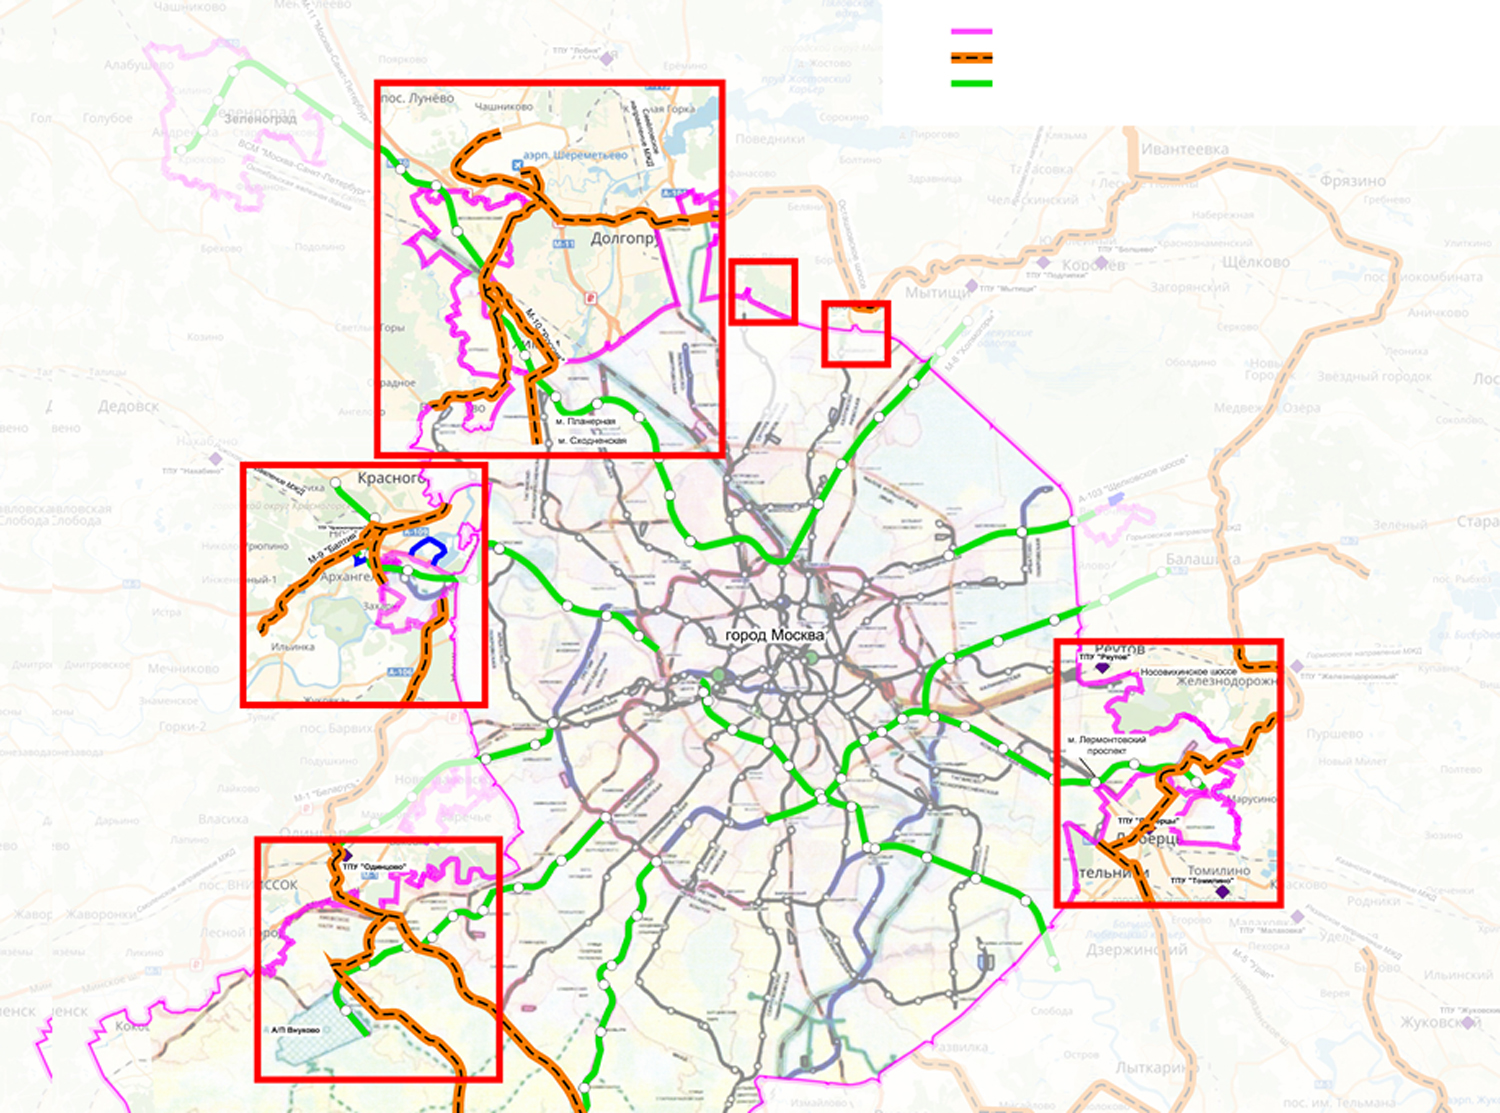
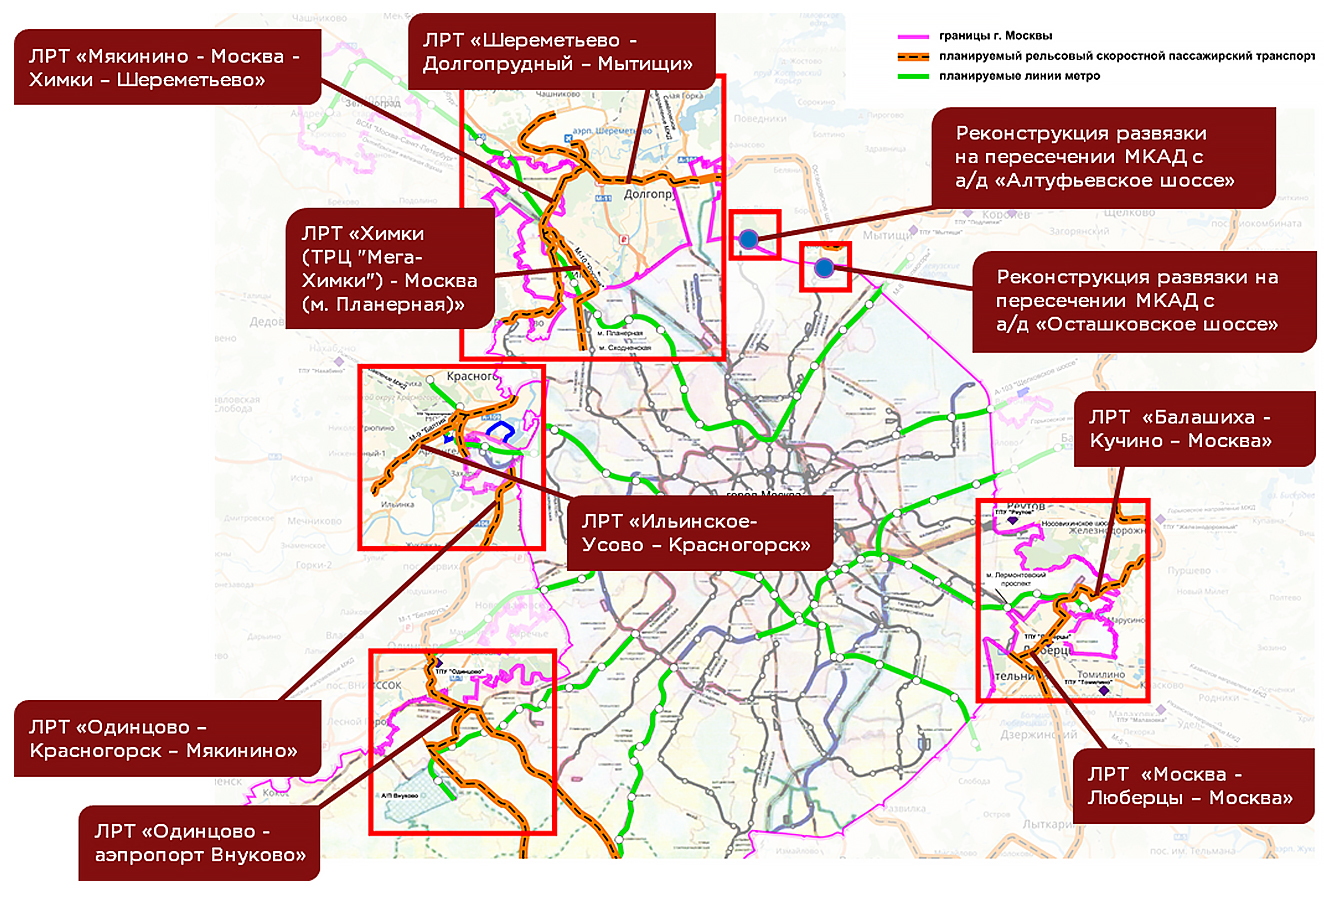
7 категория

diff --git a/src/categories/Category7/Category7.js b/src/categories/Category7/Category7.js
@@ -6,14 +6,14 @@ import './Category7.css';
 const Category7 = () => (
   <section className="section">
     <div className="sectionBody">
-      <div className="slideGrid slideGridCategory7">
-        <div className="slideGridSidebar">
+      <div className="slideGridCategory7">
+        <div className="slideGridCategory7Sidebar">
           <Title count={7} className="Category7Title">
-            Реконструкция объектов транспортной инфраструктуры на территории г. Москвы и МО (развязки МКАД), установление красных линий ЛРТ
-            в точках состыковки с будущими линиями Московского метрополитена
+            Утверждение красных линий планируемых транспортных инфраструктур (региональных транспортных коридоров, автомобильных дорог I –
+            III категории, ЛРТ)
           </Title>
         </div>
-        <div className="slideGridMap slideGridMap_Category7">
+        <div className="slideGridCategory7Map">
           <img src={img} alt="" />
         </div>
       </div>

diff --git a/src/categories/Category6/Category6.js b/src/categories/Category6/Category6.js
@@ -6,14 +6,14 @@ import './Category6.css';
 const Category6 = () => (
   <section className="section">
     <div className="sectionBody">
-      <div className="slideGrid slideGridCategory6">
-        <div className="slideGridSidebar">
+      <div className="slideGridCategory6">
+        <div className="slideGridCategory6Sidebar">
           <Title count={6} className="Category6Title">
             Реконструкция объектов транспортной инфраструктуры на территории г. Москвы и МО (развязки МКАД), установление красных линий ЛРТ
             в точках состыковки с будущими линиями Московского метрополитена
           </Title>
         </div>
-        <div className="slideGridMap slideGridMap_Category1_Slide2_1">
+        <div className="slideGridCategory6Map">
           <img src={img} alt="" />
         </div>
       </div>

diff --git a/src/categories/Category7/Category7.css b/src/categories/Category7/Category7.css
@@ -3,21 +3,21 @@
   line-height: 1.4 !important;
 }
 
-.slideGridCategory7 .slideGrid{
+.slideGridCategory7{
   position: relative;
+  height: 839px;
+  width: 1350px;
 }
-.slideGridCategory7 .slideGridSidebar{
-  position: relative;
-  z-index: 2;
-  width: 30%;
-}
-.slideGridCategory7 .slideGridMap{
-  position: relative;
+.slideGridCategory7Sidebar{
+  position: absolute;
+  left: 0;
+  top: 70px;
   z-index: 3;
-  width: 70%;
+  width: 420px;
 }
-
-.slideGridMap_Category7{
-  height: auto !important;
-  max-height: 100vh !important;
+.slideGridCategory7Map{
+  position: absolute;
+  right: 0;
+  top: 0;
+  z-index: 2;
 }

diff --git a/src/categories/Category6/Category6.css b/src/categories/Category6/Category6.css
@@ -1,18 +1,23 @@
 .Category6Title h4{
-  font-size: 1em !important;
+  font-size: 0.9em !important;
   line-height: 1.4 !important;
 }
 
-.slideGridCategory6 .slideGrid{
+.slideGridCategory6{
   position: relative;
+  height: 897px;
+  width: 1470px;
 }
-.slideGridCategory6 .slideGridSidebar{
-  position: relative;
-  z-index: 2;
-  width: 30%;
-}
-.slideGridCategory6 .slideGridMap{
-  position: relative;
+.slideGridCategory6Sidebar{
+  position: absolute;
+  left: 0;
+  top: 180px;
   z-index: 3;
-  width: 70%;
+  width: 420px;
+}
+.slideGridCategory6Map{
+  position: absolute;
+  right: 0;
+  top: 0;
+  z-index: 2;
 }

diff --git a/src/css/white.css b/src/css/white.css
@@ -100,8 +100,8 @@ body {
 .App img,
 .App video,
 .App iframe {
-  max-width: 95%;
-  max-height: 95%;
+  max-width: 100%;
+  max-height: 100%;
 }
 
 .App strong,
